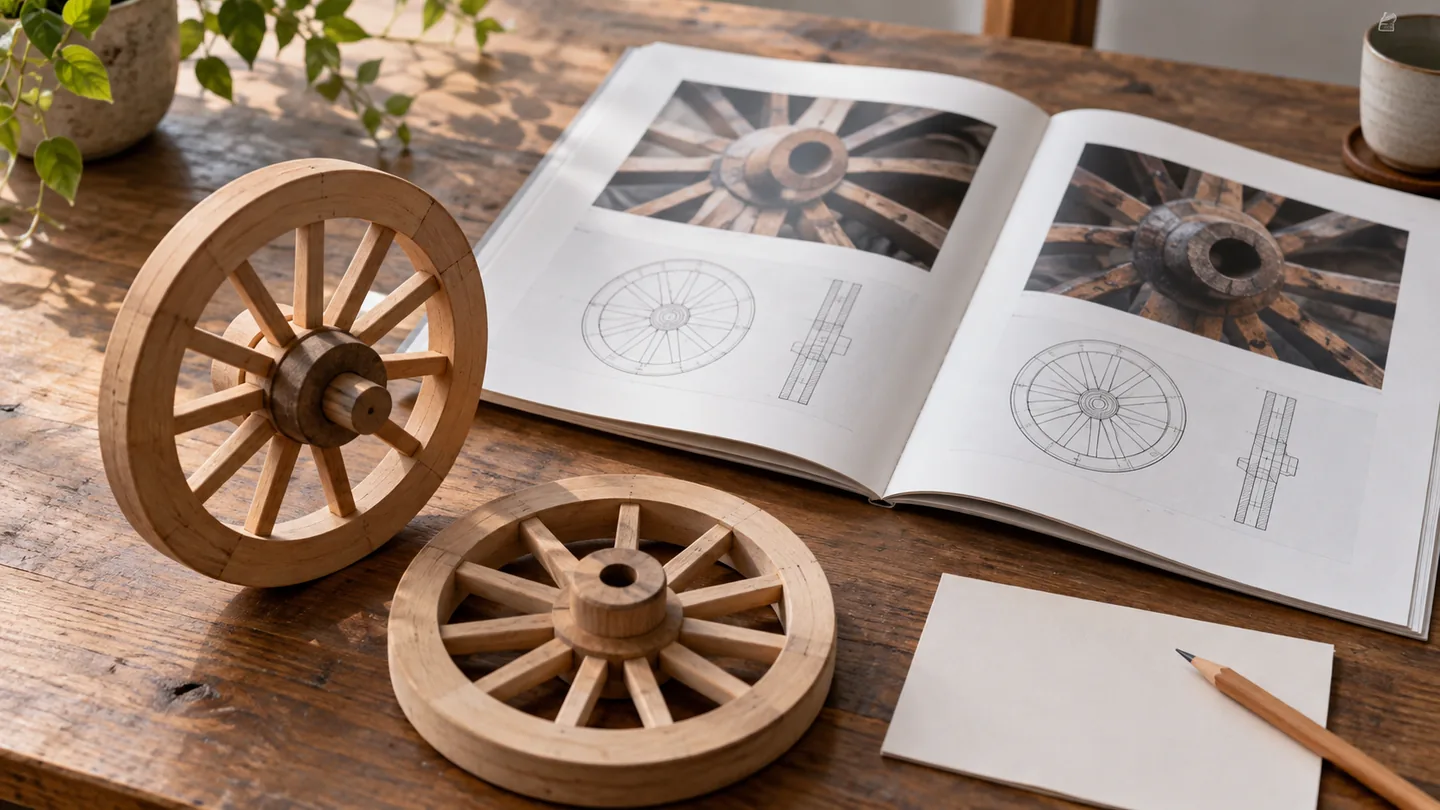
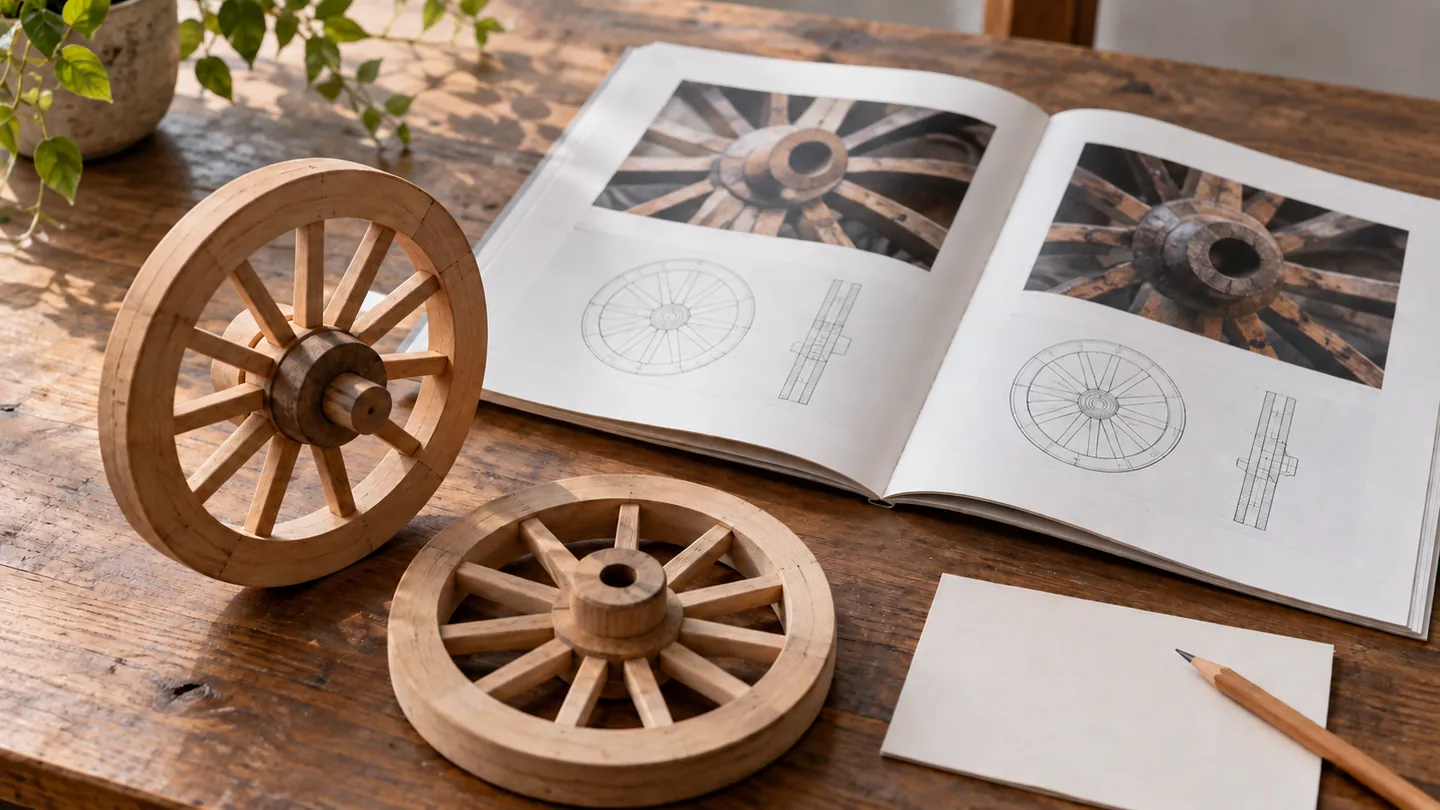
Remove stray mark from generated blog cover

diff --git a/docs/blog-designs/20260924-iwata-yatai-dashi.md b/docs/blog-designs/20260924-iwata-yatai-dashi.md
@@ -18,3 +18,5 @@
 - 境界：本編の記述を案内する。伝来時期・経路、個々の実物の現状を新たに確定しない。
 - 専用画像：写真調16:9。白紙の資料と木製車輪模型を机で見比べる静物。実在屋台の復元図と誤認しない。文字・人・ロゴなし。
 - 画像生成：組み込み imagegen 使用。最終プロンプトは「写真調の横長16:9静物写真。木の机に、二つの単純な木製車輪模型と、白紙の開いた資料冊子、無地の記録カード、鉛筆を配置。地域祭礼の呼び名と車輪の構造を資料で読み比べる記事の表紙。柔らかな自然光。屋台そのものや実在の場所は再現しない。人物、文字、数字、紋章、ロゴ、透かしなし。」
+- 画像の目視修正：初版の右上に記号状の写り込みを認めたため、組み込みimagegenで除去。最終編集プロンプト：「この写真調16:9画像を編集してください。右上にあるカップと、その近くの白い小さな記号・マークを完全に取り除き、周囲に自然につながる無地の木製テーブル面にしてください。画像全体から文字・ロゴ・透かし・記号状のスタンプをなくしてください。車輪模型、冊子の車輪写真と線画、無地カード、鉛筆、照明、横長16:9の構図は維持してください。実在の歴史資料を再現するものではないイメージ写真です。」
+- 公開画像：assets/blog/20260924-iwata-yatai-dashi-cover.webp（1440×810）。
